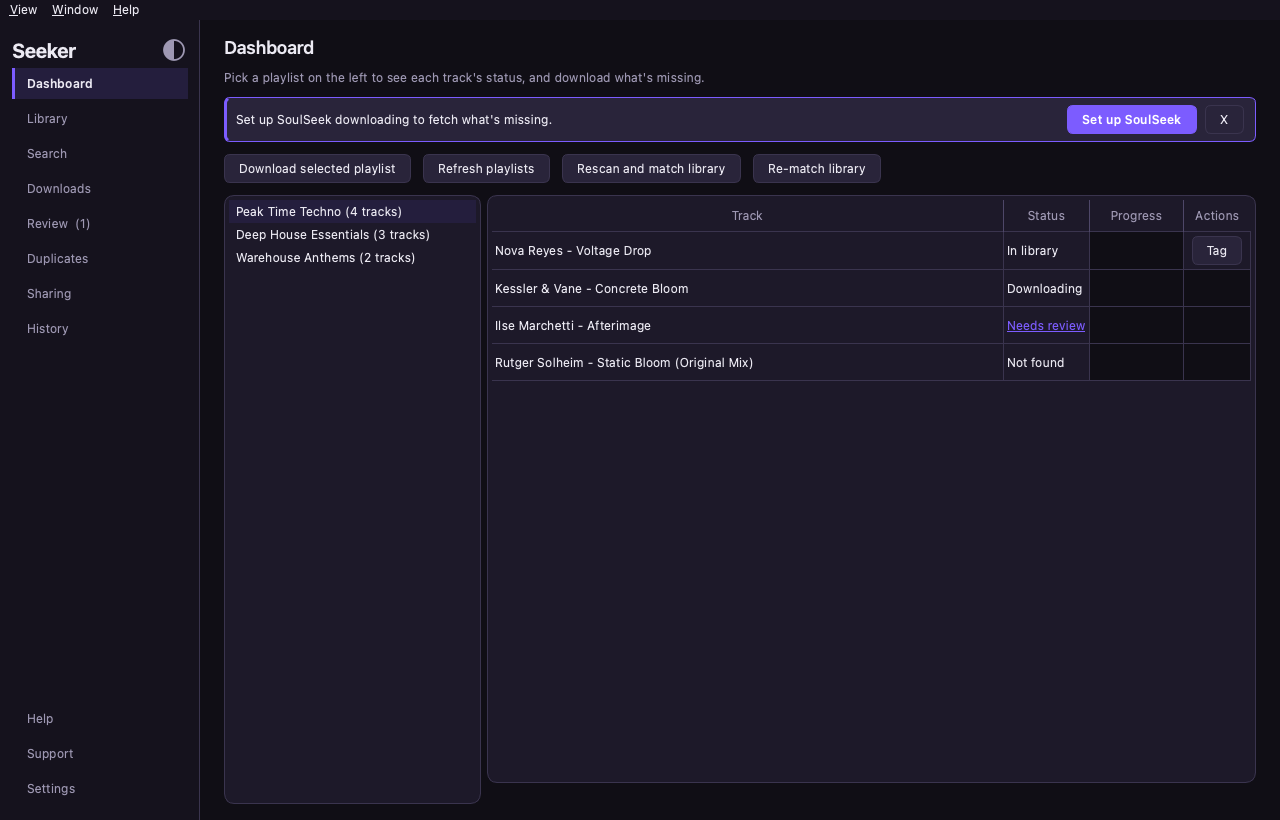
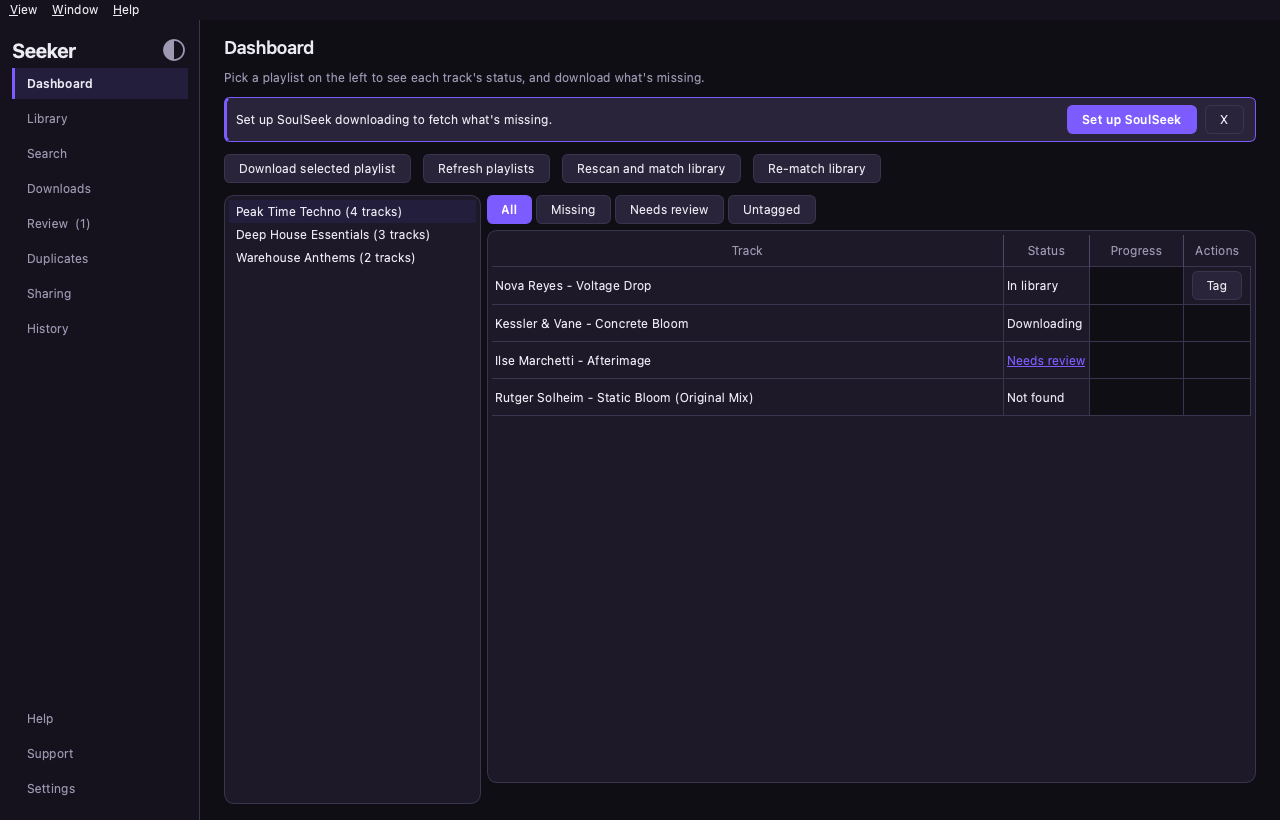
Round 8 §12.8: segmented status filter on the Dashboard track table
All / Missing / Needs review / Untagged, reading the same
TrackStatus.state values _decide_next_step already counts
(missing_count's NOT_FOUND/REVIEW_CANDIDATE, untagged_count's
IN_LIBRARY-with-no-tagged_at) plus a new "Needs review" bucket for the
two review-bound states _decide_next_step excludes from missing_count.
A segmented row of checkable QPushButtons (QButtonGroup, exclusive),
new [variant="segment"]:checked QSS rather than reusing the sidebar's
own [navItem="true"] treatment (that one assumes a vertical list).

_render_track_statuses split into itself (stores the full status list)
plus _apply_track_filter_and_render (filters + rebuilds the table) —
a filter click re-renders from the cached list with no backend poll.
A filter with zero matches gets its own empty state ("No tracks match
this filter"), distinct from "tracks haven't been loaded yet" — no
Load-tracks button belongs on the former.

pytest: 1168 passed (6 new filter tests), 1 skipped, one known
fullscreen-close flake confirmed passing individually (see CLAUDE.md
Open issues). mypy --strict: clean, 102 files. ruff check: 0 findings.

Claude-Session: https://claude.ai/code/session_01HjjVKZykHV4wr95z4LaLQh

Changed region(s): [[0.375, 0.2134, 0.625, 0.4878], [0.7812, 0.2439, 0.9688, 0.4878]]

diff --git a/src/seeker/ui/pages/dashboard_page.py b/src/seeker/ui/pages/dashboard_page.py
@@ -23,6 +23,7 @@ from PySide6.QtCore import Qt
 from PySide6.QtGui import QAction, QColor
 from PySide6.QtWidgets import (
     QAbstractItemView,
+    QButtonGroup,
     QHBoxLayout,
     QLabel,
     QListWidget,
@@ -242,6 +243,10 @@ class DashboardPage(QWidget):
         # row-position handler reads instead.
         self._current_track_statuses: list[TrackStatus] = []
         self._track_status_by_id: dict[str, TrackStatus] = {}
+        # Round 8 §12.8 — which segment of _build_track_filter_row is
+        # active; "all" shows every status, matching the table's
+        # original unfiltered behavior.
+        self._track_filter: str = "all"
         # The "next step" notice is re-rendered unconditionally on
         # every 2s poll tick (see _render_next_step), so dismissing it
         # needs its own memory: the key of whatever step was on screen
@@ -331,6 +336,7 @@ class DashboardPage(QWidget):
             self._on_track_table_cell_double_clicked
         )
         self._configure_track_columns()
+        right.addLayout(self._build_track_filter_row())
         self.track_area_stack = QStackedWidget()
         # The CARD, not the bare table, is the stack's real page;
         # setCurrentWidget() calls below target this card.
@@ -479,6 +485,67 @@ class DashboardPage(QWidget):
             item.setData(Qt.ItemDataRole.UserRole, playlist)
             self.playlist_list.addItem(item)
 
+    # Round 8 §12.8 — filter key -> (label, predicate). "all" has no
+    # predicate (always matches); order here is the row's own left-
+    # to-right button order.
+    _TRACK_FILTERS: tuple[tuple[str, str], ...] = (
+        ("all", "All"),
+        ("missing", "Missing"),
+        ("needs_review", "Needs review"),
+        ("untagged", "Untagged"),
+    )
+
+    def _build_track_filter_row(self) -> QHBoxLayout:
+        # A segmented filter over the same TrackStatus.state values
+        # _decide_next_step already counts (missing_count/
+        # untagged_count above) — "Missing" and "Untagged" read
+        # identically to those two; "Needs review" is the two review-
+        # bound states _decide_next_step deliberately excludes from
+        # missing_count (an active download_requests row already
+        # exists for them).
+        row = QHBoxLayout()
+        row.setSpacing(theme.SPACING_XS)
+
+        self._track_filter_group = QButtonGroup(self)
+        self._track_filter_group.setExclusive(True)
+        self._track_filter_buttons: dict[str, QPushButton] = {}
+
+        for key, label in self._TRACK_FILTERS:
+            button = QPushButton(label)
+            button.setCheckable(True)
+            button.setProperty("variant", "segment")
+            button.setChecked(key == self._track_filter)
+            button.toggled.connect(
+                lambda checked, key=key: (
+                    self._on_track_filter_toggled(key, checked)
+                )
+            )
+            self._track_filter_group.addButton(button)
+            self._track_filter_buttons[key] = button
+            row.addWidget(button)
+
+        row.addStretch()
+        return row
+
+    def _on_track_filter_toggled(self, key: str, checked: bool) -> None:
+        if not checked:
+            # Only the newly-checked button's own signal acts — the
+            # QButtonGroup emits toggled(False) on the outgoing button
+            # too, which would otherwise re-render twice per click.
+            return
+
+        self._track_filter = key
+        self._apply_track_filter_and_render()
+
+    def _status_matches_track_filter(self, status: TrackStatus) -> bool:
+        if self._track_filter == "missing":
+            return status.state in (NOT_FOUND, REVIEW_CANDIDATE)
+        if self._track_filter == "needs_review":
+            return status.state in (NEEDS_REVIEW, AWAITING_REVIEW)
+        if self._track_filter == "untagged":
+            return status.state == IN_LIBRARY and status.tagged_at is None
+        return True
+
     def _build_track_empty_panel(self) -> QWidget:
         # "No playlist selected, or an empty table, renders a small
         # centred panel with one line of copy and the relevant button —
@@ -570,6 +637,13 @@ class DashboardPage(QWidget):
         self._track_status_by_id = {
             status.track.id: status for status in statuses
         }
+        self._apply_track_filter_and_render()
+
+    def _apply_track_filter_and_render(self) -> None:
+        # Round 8 §12.8 — split out of _render_track_statuses so a
+        # filter-button click can re-render from the already-cached
+        # _current_track_statuses without a fresh backend poll.
+        statuses = self._current_track_statuses
 
         if not statuses:
             self.track_table.setRowCount(0)
@@ -589,16 +663,33 @@ class DashboardPage(QWidget):
             self.track_area_stack.setCurrentWidget(self._track_empty_panel)
             return
 
+        visible = [
+            status for status in statuses
+            if self._status_matches_track_filter(status)
+        ]
+
+        if not visible:
+            # A real, distinct empty state from "tracks haven't been
+            # loaded yet" above — tracks exist, none match the current
+            # filter, so no Load-tracks button belongs here.
+            self.track_table.setRowCount(0)
+            self.track_empty_label.setText(
+                "No tracks match this filter."
+            )
+            self.sync_tracks_button.hide()
+            self.track_area_stack.setCurrentWidget(self._track_empty_panel)
+            return
+
         self.track_area_stack.setCurrentWidget(self.track_table_card)
 
         # Round 8 §12.2 — sorting is live on this table; disabled for
         # the body of this rebuild (see preserving_sort_order's own
         # docstring for why) and restored afterward.
         with preserving_sort_order(self.track_table):
-            self.track_table.setRowCount(len(statuses))
+            self.track_table.setRowCount(len(visible))
             action_widgets: list[QWidget] = []
 
-            for row, status in enumerate(statuses):
+            for row, status in enumerate(visible):
                 label = f"{status.track.artist} - {status.track.title}"
                 label_item = QTableWidgetItem(label)
                 # Round 8 §12.2 — the row's own anchor back to its real

diff --git a/tests/pages/test_dashboard_page.py b/tests/pages/test_dashboard_page.py
@@ -20,15 +20,18 @@ as their assertion target — same precedent as the activity-strip and
 structural-sweep tests that also stayed.
 """
 
+from PySide6.QtCore import Qt
 from PySide6.QtWidgets import QLabel, QProgressBar, QPushButton
 
 from seeker.models.library_location import LibraryLocation
 from seeker.models.playlist import Playlist
 from seeker.models.track_status import (
+    AWAITING_REVIEW,
     DOWNLOADING,
     IN_LIBRARY,
     NEEDS_REVIEW,
     NOT_FOUND,
+    REVIEW_CANDIDATE,
     TrackStatus,
 )
 from seeker.ui import theme
@@ -731,4 +734,119 @@ def test_dashboard_downloading_bar_is_vertically_centered(qtbot):
     painted_center = (painted_ys[0] + painted_ys[-1]) / 2 / dpr
     row_center = top_left.y() + row_rect.center().y()
     assert abs(painted_center - row_center) <= 2
+
+
+# --- Track status filter (round 8 §12.8) ------------------------------------
+
+
+def _visible_track_ids(window) -> set[str]:
+    # Reads each row's own UserRole anchor (see _render_track_statuses),
+    # not the displayed label — every track in these tests shares the
+    # same "Artist - Title" text (test_ui_smoke.py's _make_track), so
+    # only the id actually distinguishes rows.
+    table = window._dashboard_page.track_table
+    return {
+        table.item(row, 0).data(Qt.ItemDataRole.UserRole)
+        for row in range(table.rowCount())
+    }
+
+
+def test_track_filter_defaults_to_all_and_shows_every_status(qtbot):
+    statuses = [
+        _make_track_status(track_id="t1", state=IN_LIBRARY),
+        _make_track_status(track_id="t2", state=NOT_FOUND),
+        _make_track_status(track_id="t3", state=NEEDS_REVIEW),
+    ]
+    application = FakeApplication()
+    window = MainWindow(application)
+    qtbot.addWidget(window)
+
+    assert (
+        window._dashboard_page._track_filter_buttons["all"].isChecked()
+    )
+    window._dashboard_page._render_track_statuses(statuses)
+
+    assert window._dashboard_page.track_table.rowCount() == 3
+
+
+def test_track_filter_missing_shows_not_found_and_review_candidate_only(qtbot):
+    statuses = [
+        _make_track_status(track_id="t1", state=IN_LIBRARY),
+        _make_track_status(track_id="t2", state=NOT_FOUND),
+        _make_track_status(track_id="t3", state=REVIEW_CANDIDATE),
+        _make_track_status(track_id="t4", state=NEEDS_REVIEW),
+    ]
+    application = FakeApplication()
+    window = MainWindow(application)
+    qtbot.addWidget(window)
+
+    window._dashboard_page._render_track_statuses(statuses)
+    window._dashboard_page._track_filter_buttons["missing"].click()
+
+    assert window._dashboard_page.track_table.rowCount() == 2
+    assert _visible_track_ids(window) == {"t2", "t3"}
+
+
+def test_track_filter_needs_review_shows_needs_and_awaiting_review_only(qtbot):
+    statuses = [
+        _make_track_status(track_id="t1", state=NEEDS_REVIEW),
+        _make_track_status(track_id="t2", state=AWAITING_REVIEW),
+        _make_track_status(track_id="t3", state=NOT_FOUND),
+        _make_track_status(track_id="t4", state=IN_LIBRARY),
+    ]
+    application = FakeApplication()
+    window = MainWindow(application)
+    qtbot.addWidget(window)
+
+    window._dashboard_page._render_track_statuses(statuses)
+    window._dashboard_page._track_filter_buttons["needs_review"].click()
+
+    assert window._dashboard_page.track_table.rowCount() == 2
+    assert _visible_track_ids(window) == {"t1", "t2"}
+
+
+def test_track_filter_untagged_shows_untagged_in_library_tracks_only(qtbot):
+    statuses = [
+        _make_track_status(track_id="t1", state=IN_LIBRARY, tagged_at=None),
+        _make_track_status(
+            track_id="t2", state=IN_LIBRARY,
+            tagged_at="2026-08-30T12:00:00+00:00",
+        ),
+        _make_track_status(track_id="t3", state=NOT_FOUND),
+    ]
+    application = FakeApplication()
+    window = MainWindow(application)
+    qtbot.addWidget(window)
+
+    window._dashboard_page._render_track_statuses(statuses)
+    window._dashboard_page._track_filter_buttons["untagged"].click()
+
+    assert window._dashboard_page.track_table.rowCount() == 1
+    assert _visible_track_ids(window) == {"t1"}
+
+
+def test_track_filter_with_no_matches_shows_empty_state_without_load_button(
+        qtbot,
+):
+    statuses = [_make_track_status(track_id="t1", state=IN_LIBRARY)]
+    application = FakeApplication()
+    window = MainWindow(application)
+    qtbot.addWidget(window)
+
+    window._dashboard_page._render_track_statuses(statuses)
+    window._dashboard_page._track_filter_buttons["missing"].click()
+
+    assert window._dashboard_page.track_table.rowCount() == 0
+    assert (
+        window._dashboard_page.track_area_stack.currentWidget()
+        is window._dashboard_page._track_empty_panel
+    )
+    assert "filter" in window._dashboard_page.track_empty_label.text().lower()
+    # Distinct from the "tracks haven't been loaded yet" empty state —
+    # there's nothing to load here, so no button.
+    assert window._dashboard_page.sync_tracks_button.isHidden()
+
+    # Switching back to "All" restores the real row.
+    window._dashboard_page._track_filter_buttons["all"].click()
+    assert window._dashboard_page.track_table.rowCount() == 1
 

diff --git a/src/seeker/ui/theme.py b/src/seeker/ui/theme.py
@@ -865,6 +865,18 @@ QPushButton[variant="danger"]:hover {{
     color: {palette.ON_ACCENT};
 }}
 
+/* Round 8 §12.8 — a horizontal segmented filter row (Dashboard's
+track-status filter): plain default QPushButton look unchecked, an
+ACCENT fill once checked — a pill-row variant of [variant="primary"]
+rather than the sidebar's own [navItem="true"] left-border treatment,
+which assumes a vertical list. */
+QPushButton[variant="segment"]:checked {{
+    background-color: {palette.ACCENT};
+    border: 1px solid {palette.ACCENT};
+    color: {palette.ON_ACCENT};
+    font-weight: 600;
+}}
+
 /* Sidebar nav items — transparent by default (deliberately NOT the
 ordinary QPushButton surface/border look above; a flat text-only
 button reads better in a list of nav items than a row of boxed
